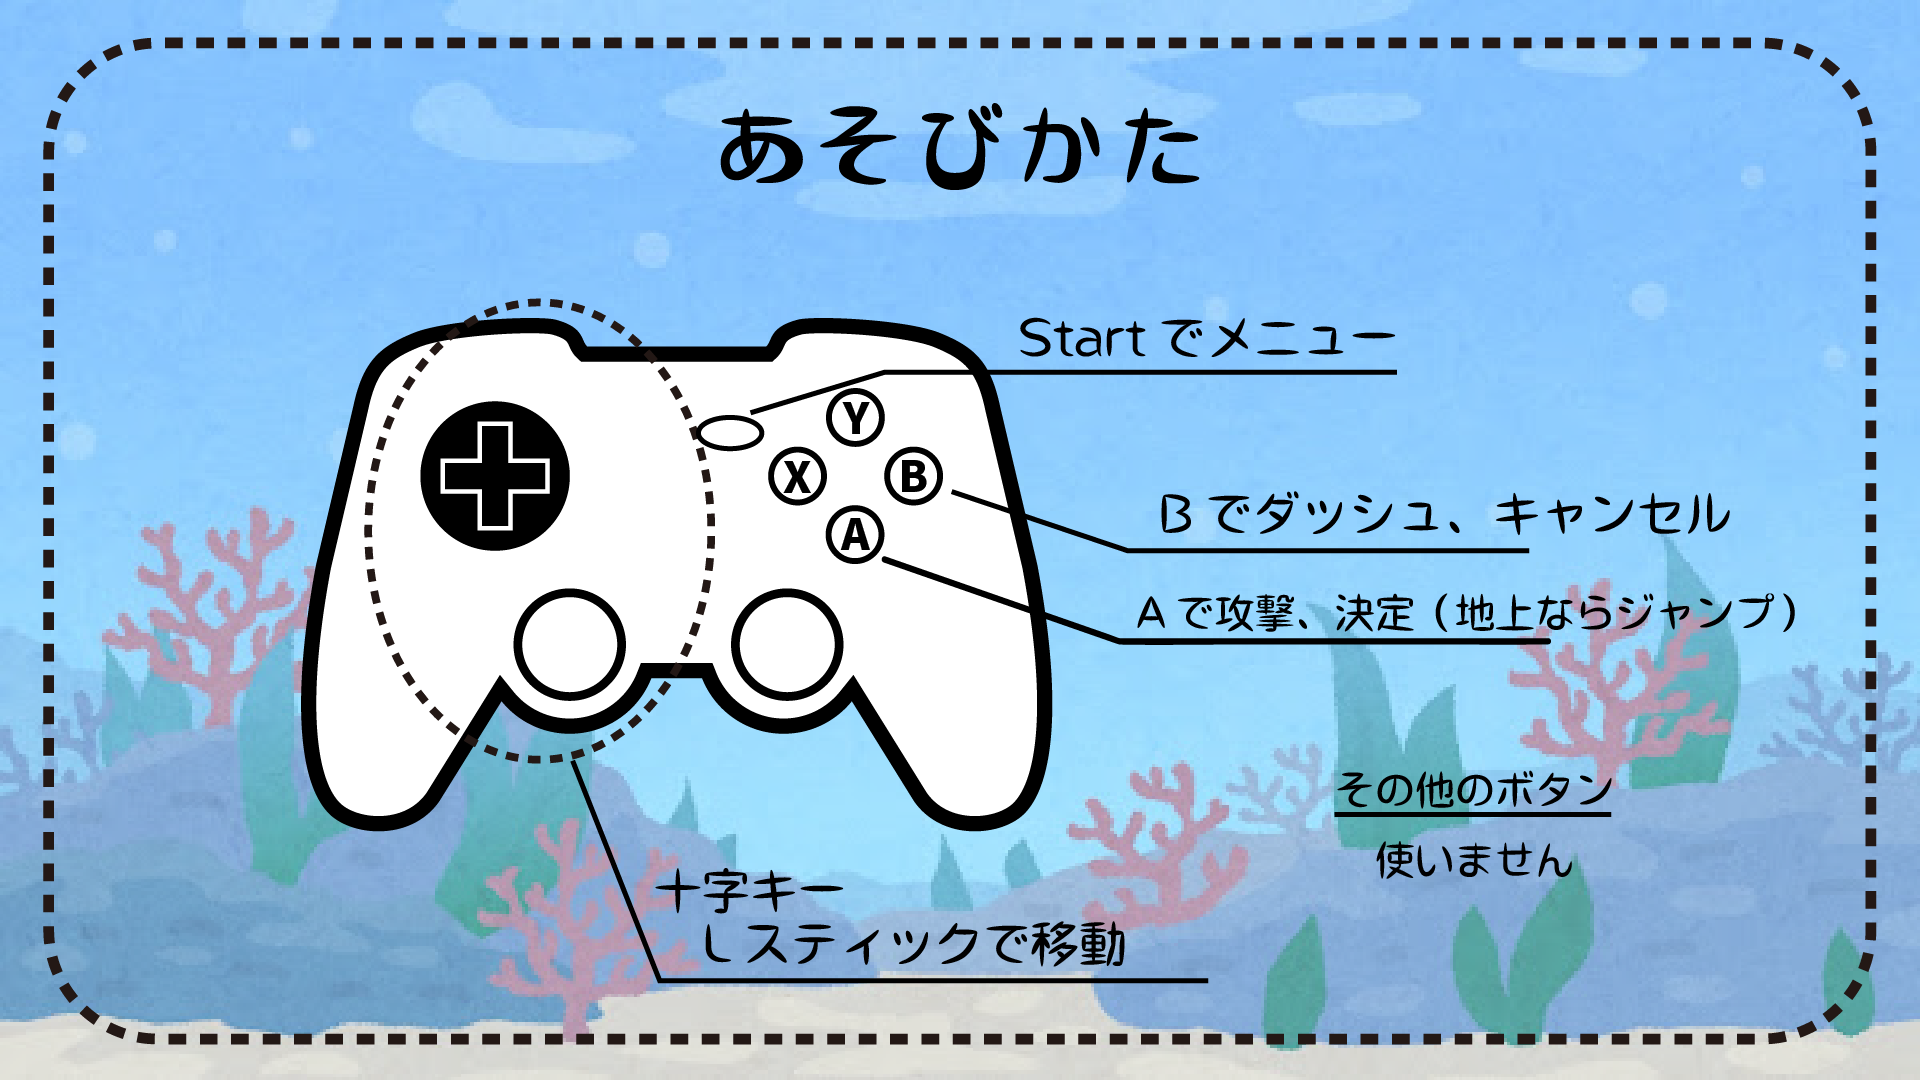
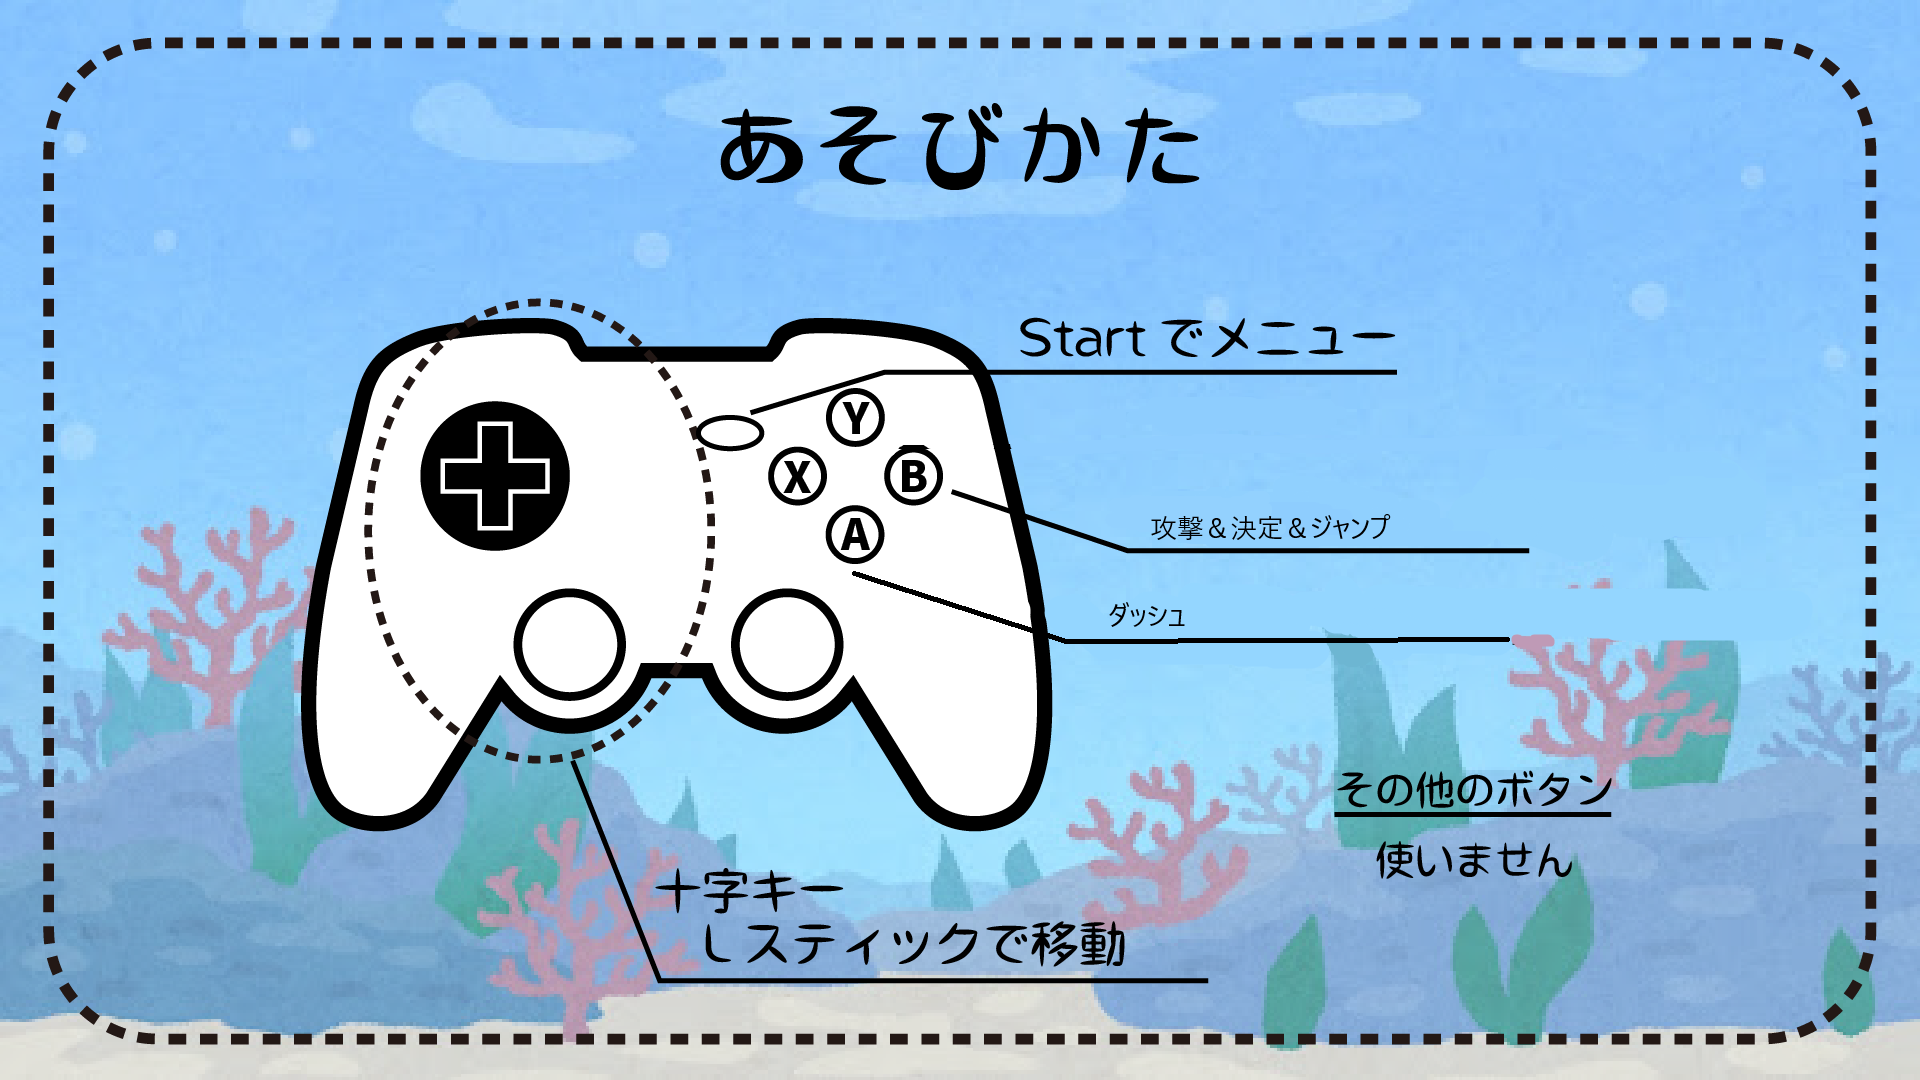
うｐ

Changed region(s): [[0.4375, 0.5194, 0.9375, 0.6111], [0.5938, 0.4583, 0.75, 0.5194], [0.7812, 0.4583, 0.9062, 0.4889]]

diff --git a/DxLibGame_Winter/Input.cpp b/DxLibGame_Winter/Input.cpp
@@ -1,7 +1,7 @@
 #include "Input.h"
+#include <cassert>
 #include <DxLib.h>
 #include <string>
-#include <cassert>
 
 namespace
 {
@@ -31,12 +31,12 @@ Input::Input() :
     m_inputEvent["Dash"] =
     {
         {PeripheralType::kKeyboard, KEY_INPUT_LSHIFT},
-        {PeripheralType::kPad, kPadB},
+        {PeripheralType::kPad, kPadA},
     };
     m_inputEvent["Attack"] =
     {
         {PeripheralType::kKeyboard, KEY_INPUT_Z},
-        {PeripheralType::kPad, kPadA},
+        {PeripheralType::kPad, kPadB},
     };
     m_inputEvent["Up"] =
     {
@@ -71,7 +71,7 @@ Input::Input() :
     m_inputEvent["Jump"] =
     {
         {PeripheralType::kKeyboard, KEY_INPUT_SPACE},
-        {PeripheralType::kPad, kPadA},
+        {PeripheralType::kPad, kPadB},
     };
     m_inputEvent["Pause"] =
     {
@@ -81,7 +81,7 @@ Input::Input() :
     m_inputEvent["Submit"] =
     {
         {PeripheralType::kKeyboard, KEY_INPUT_Z},
-        {PeripheralType::kPad, kPadA},
+        {PeripheralType::kPad, kPadB},
     };
     m_inputEvent["RecoverPlayerHp_Debug"] =
     {

diff --git a/DxLibGame_Winter/game.h b/DxLibGame_Winter/game.h
@@ -17,5 +17,5 @@ namespace Game
 	constexpr int kScreenHalfWidth = Game::kScreenWidth >> 1;
 	constexpr int kScreenHalfHeight = Game::kScreenHeight >> 1;
 
-	constexpr bool kDefaultWindowMode = true;
+	constexpr bool kDefaultWindowMode = false;
 }
